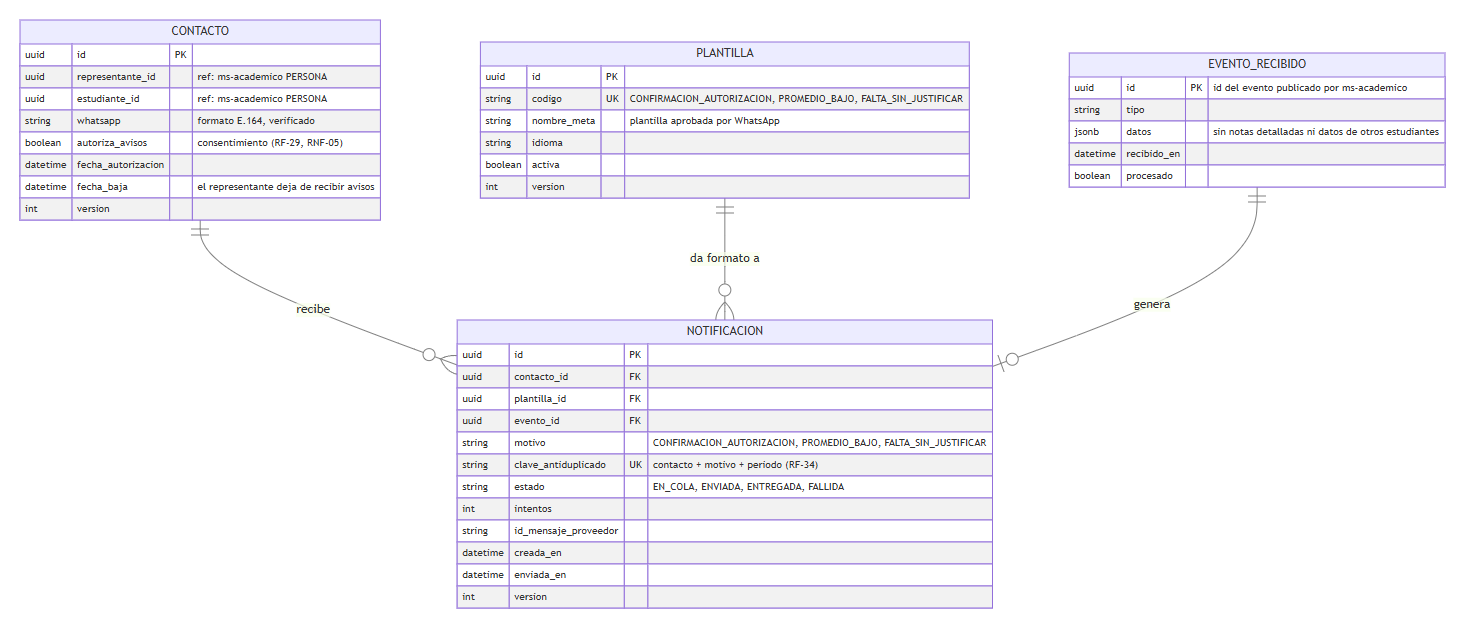
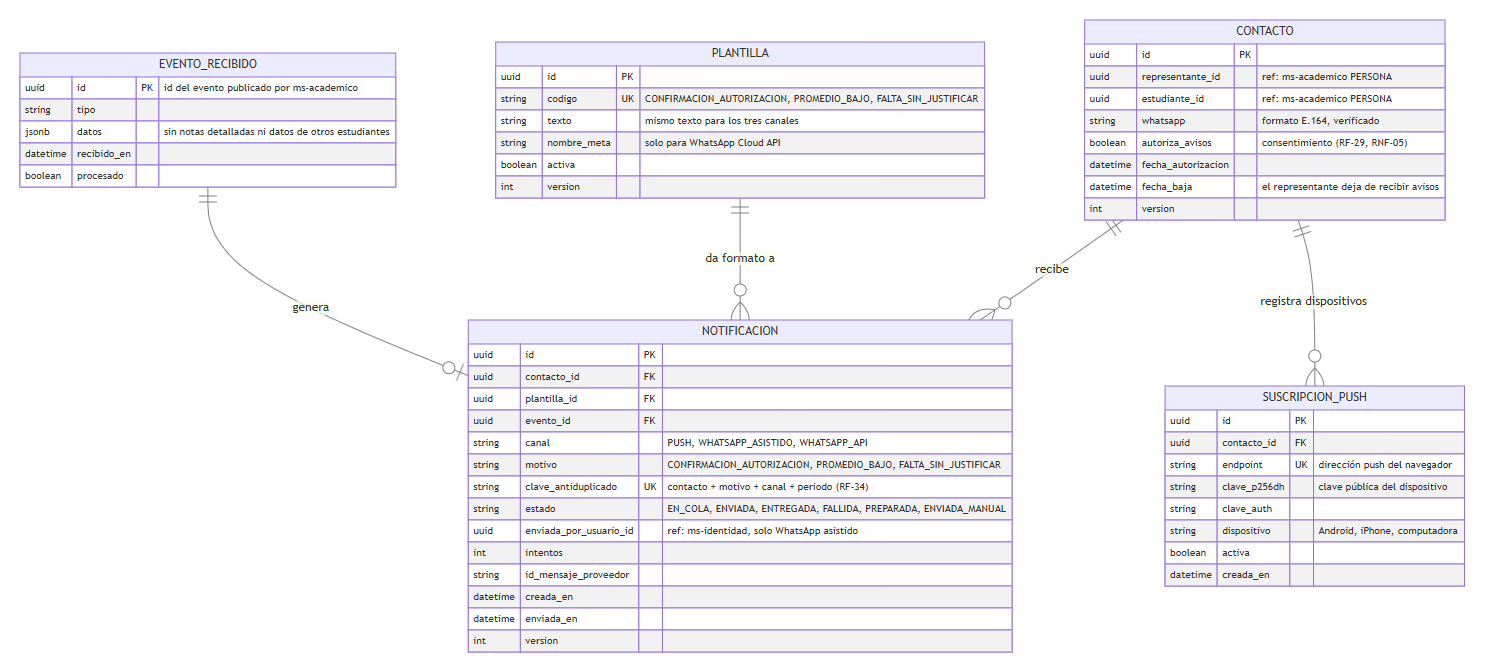
Avisos por niveles (push, WhatsApp asistido y WhatsApp API opcional) y solicitud de cambio CR-01

diff --git a/docs/arquitectura/modelo_datos.md b/docs/arquitectura/modelo_datos.md
@@ -205,6 +205,7 @@ Tablas de soporte de ms-academico (sin relaciones en el diagrama para no saturar
 ```mermaid
 erDiagram
     CONTACTO ||--o{ NOTIFICACION : "recibe"
+    CONTACTO ||--o{ SUSCRIPCION_PUSH : "registra dispositivos"
     PLANTILLA ||--o{ NOTIFICACION : "da formato a"
     EVENTO_RECIBIDO ||--o| NOTIFICACION : "genera"
 
@@ -218,11 +219,21 @@ erDiagram
         datetime fecha_baja "el representante deja de recibir avisos"
         int version
     }
+    SUSCRIPCION_PUSH {
+        uuid id PK
+        uuid contacto_id FK
+        string endpoint UK "dirección push del navegador"
+        string clave_p256dh "clave pública del dispositivo"
+        string clave_auth
+        string dispositivo "Android, iPhone, computadora"
+        boolean activa
+        datetime creada_en
+    }
     PLANTILLA {
         uuid id PK
         string codigo UK "CONFIRMACION_AUTORIZACION, PROMEDIO_BAJO, FALTA_SIN_JUSTIFICAR"
-        string nombre_meta "plantilla aprobada por WhatsApp"
-        string idioma
+        string texto "mismo texto para los tres canales"
+        string nombre_meta "solo para WhatsApp Cloud API"
         boolean activa
         int version
     }
@@ -238,9 +249,11 @@ erDiagram
         uuid contacto_id FK
         uuid plantilla_id FK
         uuid evento_id FK
+        string canal "PUSH, WHATSAPP_ASISTIDO, WHATSAPP_API"
         string motivo "CONFIRMACION_AUTORIZACION, PROMEDIO_BAJO, FALTA_SIN_JUSTIFICAR"
-        string clave_antiduplicado UK "contacto + motivo + periodo (RF-34)"
-        string estado "EN_COLA, ENVIADA, ENTREGADA, FALLIDA"
+        string clave_antiduplicado UK "contacto + motivo + canal + periodo (RF-34)"
+        string estado "EN_COLA, ENVIADA, ENTREGADA, FALLIDA, PREPARADA, ENVIADA_MANUAL"
+        uuid enviada_por_usuario_id "ref: ms-identidad, solo WhatsApp asistido"
         int intentos
         string id_mensaje_proveedor
         datetime creada_en
@@ -248,6 +261,16 @@ erDiagram
         int version
     }
 ```
+
+### Canales de aviso (esquema por niveles, decisión del 26/10)
+
+| Nivel | Canal | Costo | Cómo funciona |
+|---|---|---|---|
+| 1 | **Push de la PWA** | Gratis | Notificación en el celular o la computadora del representante con Web Push (estándar del navegador, claves VAPID). Automático |
+| 2 | **WhatsApp asistido** | Gratis | La notificación queda `PREPARADA`; el docente o la secretaría ve el botón "Avisar por WhatsApp", que abre `https://wa.me/<número>?text=<mensaje>` con la plantilla ya llenada. Al presionar "Enviar" se marca `ENVIADA_MANUAL` con quién la envió |
+| 3 | **WhatsApp Cloud API** | Pago por mensaje | Envío automático con plantillas aprobadas por Meta. Se usa con el número de prueba gratuito en el desarrollo y se activa en producción solo si el colegio decide pagarlo |
+
+Los tres canales usan el **mismo adaptador** (`CanalNotificacion` con las implementaciones `PushCanal`, `WhatsAppAsistidoCanal`, `WhatsAppApiCanal` y `SimuladoCanal` para las pruebas). Qué canales están activos es una configuración, no un cambio de código.
 
 ## 4. Cómo viaja un aviso entre los dos servicios
 
@@ -257,15 +280,20 @@ sequenceDiagram
     participant A as ms-academico
     participant Q as RabbitMQ
     participant N as ms-notificaciones
-    participant W as WhatsApp Cloud API
+    participant P as Navegador del representante
+    participant S as Docente o Secretaría
+    participant W as WhatsApp
     D->>A: Registra nota o falta
     A->>A: Guarda el cambio y el evento en OUTBOX (misma transacción)
     A->>Q: Publica promedio_bajo / falta_registrada
     Q->>N: Entrega el evento
     N->>N: EVENTO_RECIBIDO evita procesarlo dos veces
     N->>N: Busca CONTACTO autorizado y arma la clave antiduplicado
-    N->>W: Envía la plantilla aprobada
-    W-->>N: Estado de entrega
+    N->>P: Nivel 1: notificación push (gratis, automática)
+    N->>N: Nivel 2: deja la notificación PREPARADA para WhatsApp
+    S->>W: Presiona "Avisar por WhatsApp" (wa.me con el mensaje ya escrito)
+    S->>N: Marca ENVIADA_MANUAL
+    N-->>W: Nivel 3 (solo si el colegio lo activa): envío por WhatsApp Cloud API
     N->>N: Actualiza NOTIFICACION (historial, RF-33)
 ```
 
@@ -274,7 +302,8 @@ sequenceDiagram
 | Decisión | Motivo |
 |---|---|
 | Docentes, estudiantes y representantes se modelan como `PERSONA` en ms-academico, ligada al `usuario_id` de ms-identidad | ms-identidad solo guarda credenciales y roles; los datos académicos no salen de ms-academico |
-| El número de WhatsApp y el consentimiento viven en ms-notificaciones | Solo el servicio que envía mensajes ve los teléfonos (principio de mínimo privilegio, RNF-04) |
+| Avisos por niveles: push gratuito, WhatsApp asistido gratuito y WhatsApp Cloud API opcional de pago | Cumple RF-30 y RF-31 sin costo obligatorio para el colegio; el canal se elige por configuración (SRS 2.3, riesgo R10) |
+| El número de WhatsApp, las suscripciones push y el consentimiento viven en ms-notificaciones | Solo el servicio que envía mensajes ve los teléfonos (principio de mínimo privilegio, RNF-04) |
 | Patrón *outbox* + tabla de eventos recibidos | Garantiza que cada aviso se envíe una sola vez aunque fallen la red o RabbitMQ (RF-34, RF-35) |
 | `CALIFICACION` guarda la nota final ya calculada | Se calcula con `packages/calculo` al guardar; los reportes no recalculan (RNF-02) |
 | Calificaciones, asistencia y comportamiento cuelgan de `MATRICULA` | Conservan el historial si el estudiante cambia de curso o se retira (RF-24) |
@@ -287,5 +316,5 @@ sequenceDiagram
 | 4 | PERSONA, REPRESENTACION, ASIGNACION, HORARIO, DIA_NO_DICTADO, AUDITORIA | — |
 | 5 | CALIFICACION, TAREA, ENTREGA, ASISTENCIA, COMPORTAMIENTO, PARAMETRO, OUTBOX | — |
 | 7 | PLANIFICACION, SEMANA_PLANIFICACION, OBSERVACION | — |
-| 8 | — | CONTACTO, PLANTILLA, EVENTO_RECIBIDO, NOTIFICACION |
+| 8 | — | CONTACTO, SUSCRIPCION_PUSH, PLANTILLA, EVENTO_RECIBIDO, NOTIFICACION |
 | 9 | CAMBIO_SINCRONIZADO | — |

diff --git a/docs/requisitos/cambios_requisitos.md b/docs/requisitos/cambios_requisitos.md
@@ -1,0 +1,43 @@
+# Control de cambios de requisitos
+
+Cada cambio a un requisito ya acordado se registra aquí, con su motivo y su impacto, y lo aprueba el Product Owner (vicerrector) antes de pasar al SRS.
+
+| ID | Fecha | Requisitos | Estado |
+|---|---|---|---|
+| CR-01 | 26/10/2026 | RF-30, RF-31, RF-32, RF-33, RF-35 | Propuesta, pendiente de aprobación del vicerrector |
+
+## CR-01 · Avisos a representantes por niveles y solo tres mensajes
+
+**Solicitado por:** equipo SB Solutions · **Fecha:** 26/10/2026
+
+### Motivo
+
+La restricción 2.3 del SRS indica que WhatsApp depende de un proveedor autorizado (WhatsApp Cloud API de Meta), con **costo por mensaje** y **plantillas aprobadas**. El colegio no tiene un presupuesto asignado para ese costo, y las alternativas gratuitas no oficiales (librerías que automatizan WhatsApp Web) violan los términos de WhatsApp y exponen datos de menores, por lo que se descartan.
+
+### Cambio propuesto
+
+| Requisito | Texto actual (SRS v0.1) | Texto propuesto |
+|---|---|---|
+| RF-30 | El sistema debe enviar automáticamente un mensaje de WhatsApp al representante cuando el promedio de su representado en una materia baje de 7. | El sistema debe avisar automáticamente al representante, mediante notificación push de la aplicación, cuando el promedio de su representado en una materia baje de 7, y dejar preparado el aviso por WhatsApp para que el docente o la secretaría lo envíe con un clic. Si el colegio activa el proveedor de WhatsApp, el envío por WhatsApp también será automático. |
+| RF-31 | El sistema debe enviar un mensaje de WhatsApp al representante cuando su representado registre una falta o atraso sin justificar. | Igual que RF-30, para las **faltas sin justificar**. Los atrasos se muestran en la aplicación y no generan aviso externo. |
+| RF-32 | (Media) Avisos de tareas próximas y comunicados por WhatsApp. | Las tareas próximas y los comunicados se muestran dentro de la aplicación; no se envían por WhatsApp. |
+| RF-33 | Registrar cada notificación con fecha, destinatario, motivo y estado. | Igual, agregando el **canal** usado (push, WhatsApp asistido o WhatsApp automático) y, en el WhatsApp asistido, **quién** lo envió. |
+| RF-35 | Si no hay conexión, guardar el aviso y enviarlo al recuperarla. | Sin cambio: aplica a los tres canales. |
+
+Mensajes externos permitidos: **confirmación de autorización, promedio bajo y falta sin justificar**.
+
+### Impacto
+
+| Aspecto | Impacto |
+|---|---|
+| Costo para el colegio | Ninguno obligatorio. El WhatsApp automático queda como opción de pago |
+| Innovación del Entregable 2 | Se mantiene el aviso inmediato a la familia; el WhatsApp sigue presente (asistido o automático) |
+| Cronograma | Sin cambio de fechas: el sprint 8 implementa los tres canales con el mismo adaptador |
+| Modelo de datos | Nueva tabla `SUSCRIPCION_PUSH` y campo `canal` en `NOTIFICACION` ([modelo_datos.md](../arquitectura/modelo_datos.md)) |
+| Riesgo R10 (costo o demora del proveedor) | Se reduce: el sistema funciona aunque el proveedor no esté activo |
+
+### Aprobación
+
+| Rol | Nombre | Decisión | Fecha |
+|---|---|---|---|
+| Product Owner | Vicerrector de la U. E. "Andoas" | Pendiente | |

diff --git a/docs/arquitectura/plantillas_whatsapp.md b/docs/arquitectura/plantillas_whatsapp.md
@@ -1,5 +1,12 @@
 # Plantillas de mensajes de WhatsApp (v1)
 
+> **Canales (decisión del 26/10, esquema por niveles).** El mismo texto de estas 3 plantillas se usa en:
+> 1. **Notificación push de la PWA**: gratis y automática (canal principal).
+> 2. **WhatsApp asistido**: gratis; el docente o la secretaría presiona "Avisar por WhatsApp" y se abre `https://wa.me/<número>?text=<mensaje>` con el texto ya llenado.
+> 3. **WhatsApp Cloud API**: automático y de pago por mensaje; queda listo con el número de prueba y se activa solo si el colegio lo paga.
+>
+> Detalle en [modelo_datos.md](modelo_datos.md) (sección "Canales de aviso") y la solicitud de cambio CR-01 en [docs/requisitos/cambios_requisitos.md](../requisitos/cambios_requisitos.md).
+
 AulaConecta envía **solo tres mensajes** por WhatsApp. WhatsApp Cloud API únicamente permite iniciar una conversación con **plantillas aprobadas por Meta**; las variables van como `{{1}}`, `{{2}}`… y ms-notificaciones las llena con los datos del evento. Categoría: **Utilidad** (avisos del servicio, no publicidad). Idioma: español.
 
 | Código | Cuándo se envía | Requisito |
